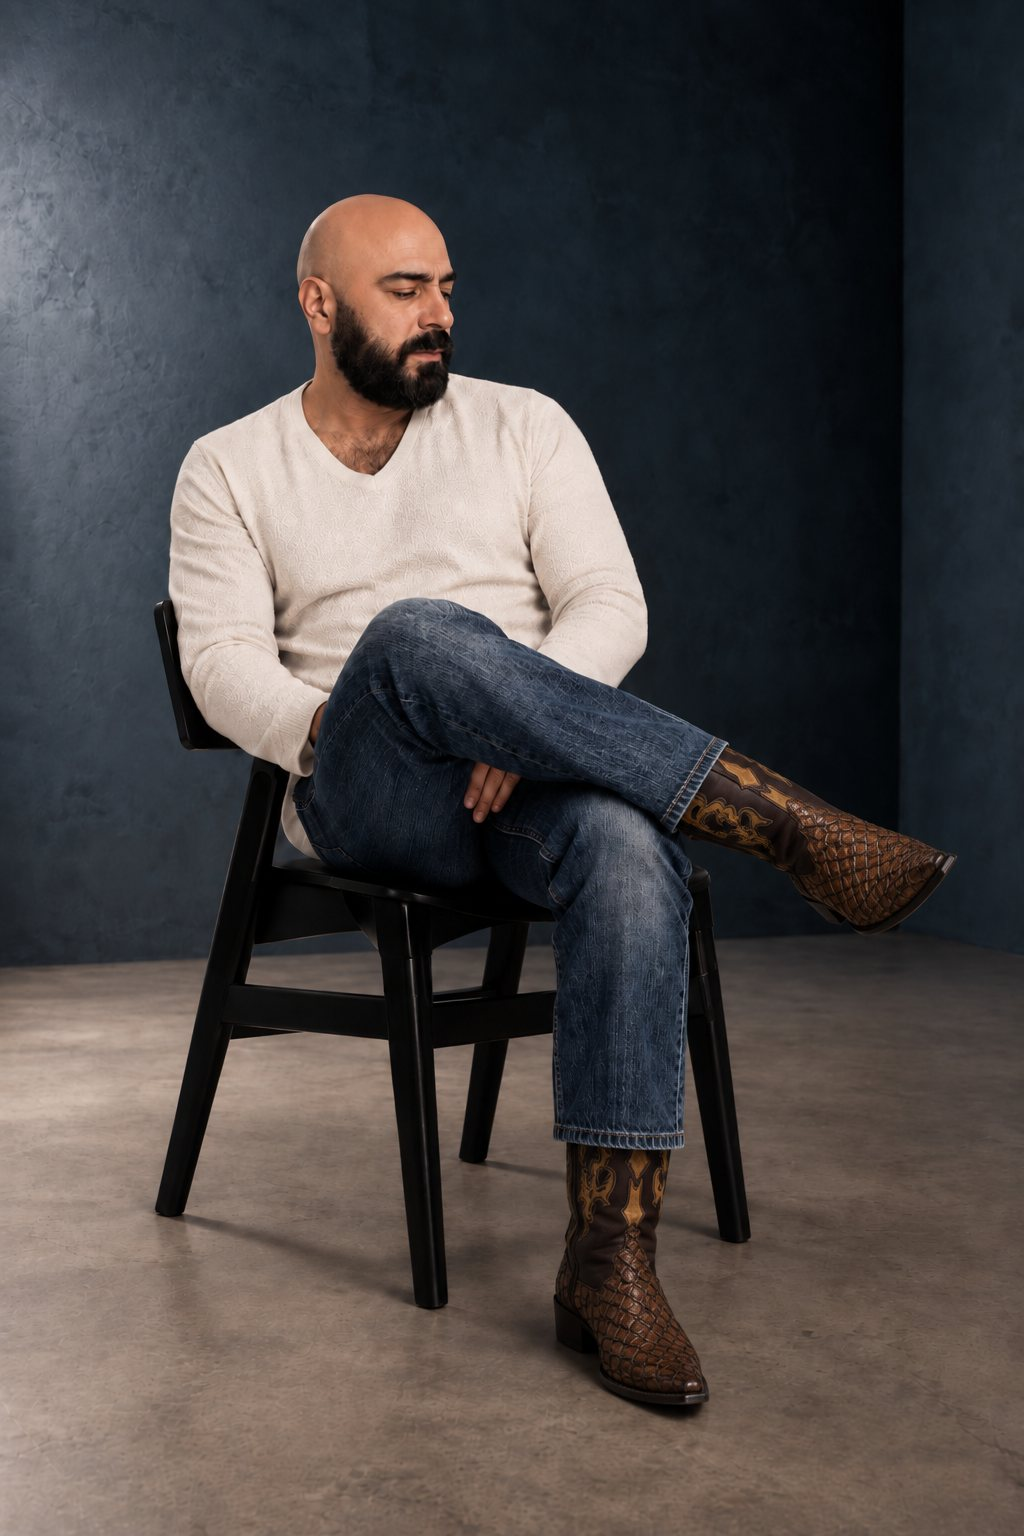
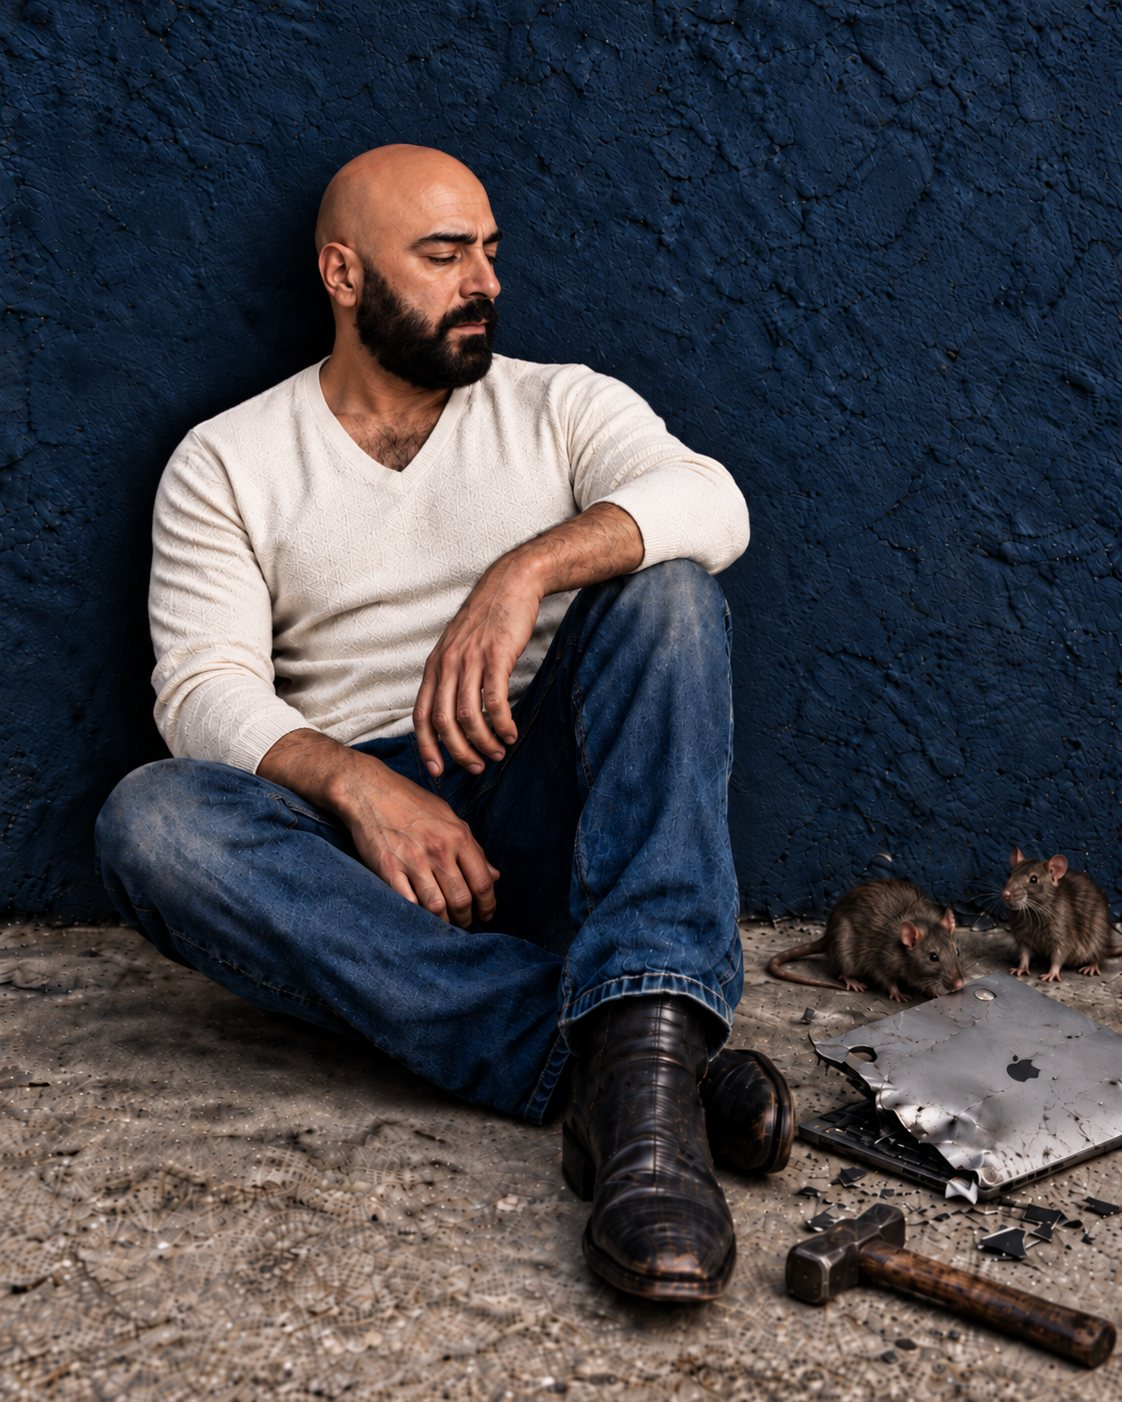
Floor photos as the homepage hero

diff --git a/index.html b/index.html
@@ -161,7 +161,7 @@
 
       <picture>
           <source media="(max-width: 1040px)" srcset="/assets/img/hero-mobile.jpg">
-          <img src="assets/img/rodney.png" alt="Rodney Zadeh" width="656" height="974">
+          <img src="assets/img/rodney.png" alt="Rodney Zadeh" width="1122" height="1364">
         </picture>
     </div>
 
